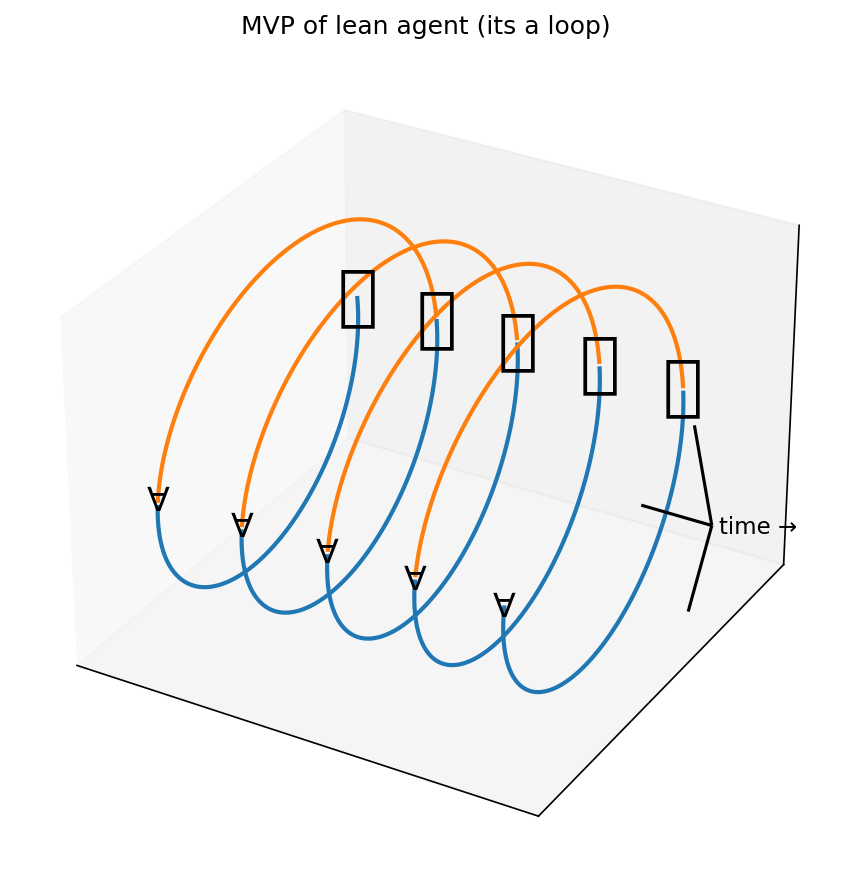
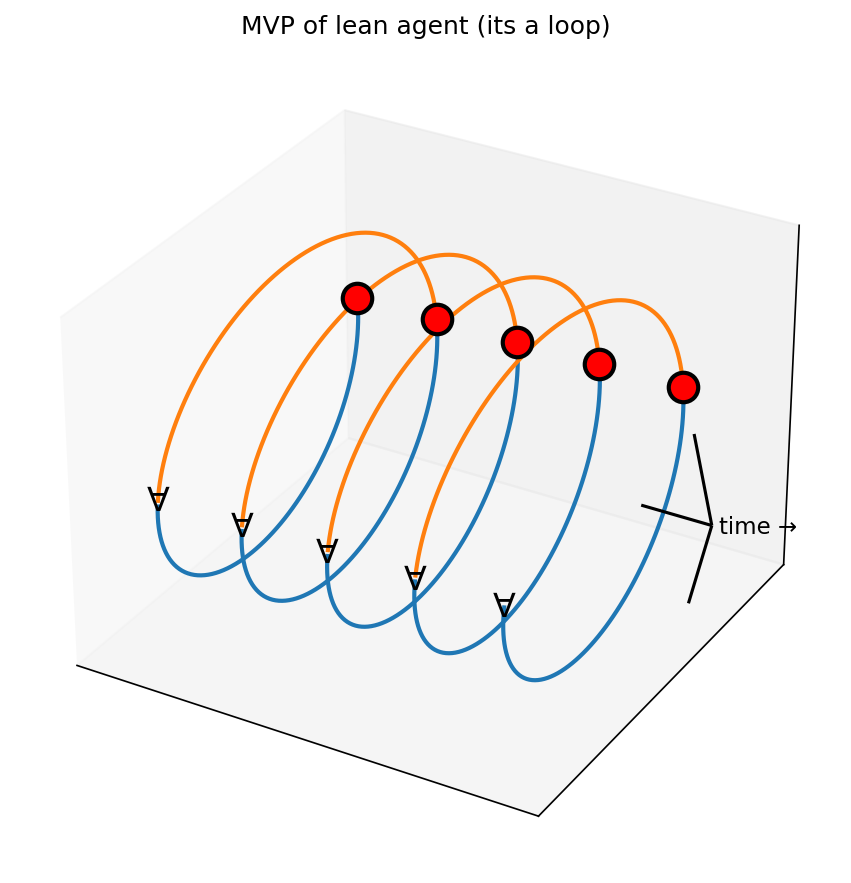
Use red circle markers for LLM since matplotlib can't handle color emoji fonts

diff --git a/scripts/lean_agent_helix.py b/scripts/lean_agent_helix.py
@@ -82,10 +82,9 @@ forall = "∀"
 for xn, yn, zn in zip(x_min, y_min, z_min):
     ax.text(xn, yn, zn, forall, fontsize=16, ha='center', va='center')
 
-# LLM toolcalls: use a simple marker symbol instead of emoji
-# Since matplotlib can't handle color emoji fonts, use a circle marker
+# LLM toolcalls: use Unicode symbol since matplotlib can't handle color emoji fonts
 for xm, ym, zm in zip(x_max, y_max, z_max):
-    ax.scatter(xm, ym, zm, marker='o', s=200, c='red', edgecolors='black', linewidths=2)
+    ax.text(xm, ym, zm, "◉", fontsize=32, ha='center', va='center')
 
 # Arrow along time at far right
 arrow_x0 = t_max
